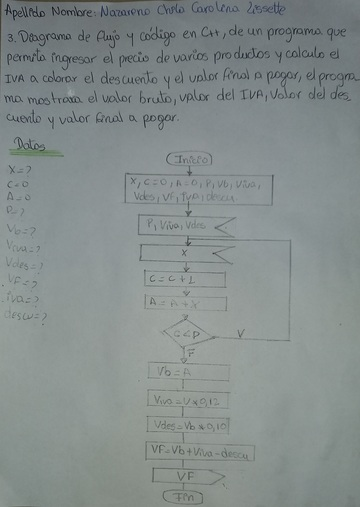
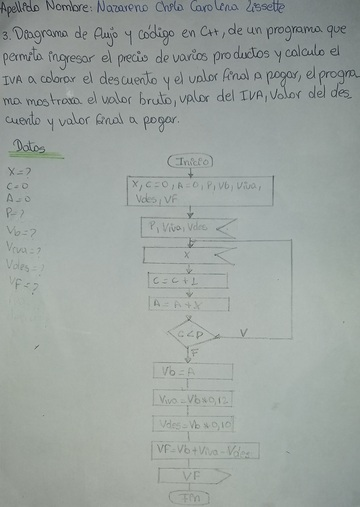
Program c++ and code

diff --git a/NazarenoCarolina/ACTIVIDAD-B2/NazarenoCarolina-PuntoVenta.cpp b/NazarenoCarolina/ACTIVIDAD-B2/NazarenoCarolina-PuntoVenta.cpp
@@ -1,39 +1,32 @@
-#include <iostream>
+#include<iostream>
+
 using namespace std;
-int main ()
+
+int main()
 {
-int c=0, P;
+  float x,c=0,A=0,P,Vb,Viva,Vdes,Vf;
+  
+  cout<<"Ingrese el valor de P:"; 
+  cin>>P;
+  
+  do
+  {
 
-float A=0, x, Tb, Piva, Pdsc, iva=0.12, desc=0.30, vt;
+  cout<<"Ingrese el valor de x:"; 
+  cin>>x;
+  
+  c=c+1;
+  A=A+x;
 
-cout<<"Ingrese la cantidad de productos: ";
-cin>>P;
-do{
-cout<<"Ingrese el valor del producto: ";
-cin>>x;
-c=c+1;
-A=A+x;
-Piva=A*iva;
-cout<<"El valor del iva de la compra es de: $"<<Piva<<endl;
-Pdsc=A*desc;
-cout<<"El valor del descuento de su compra es de: $"<<Pdsc<<endl;
-Tb=Piva+Pdsc;
 
-}while (c<P);
-
-if (Tb==A){
-cout<<"Su compra aplica para un descuento:"<<Tb<<endl;
-
-iva=Tb*Piva/100;
-
-desc=Tb*Pdsc/100;
-
-}else{
-	
-vt=A+Piva-Pdsc;
-
-cout<<"El valor total es de: $"<<vt<<endl;
-}
-
-return(0);
+  }
+  
+  while(c<P);
+  Vb=A;
+  Viva=Vb*0.12;
+  Vdes=Vb*0.10;
+  Vf=Vb+Viva-Vdes;
+  
+  cout<<"valor final a pagar es de:";
+  cout<<Vf<<endl;
 }
